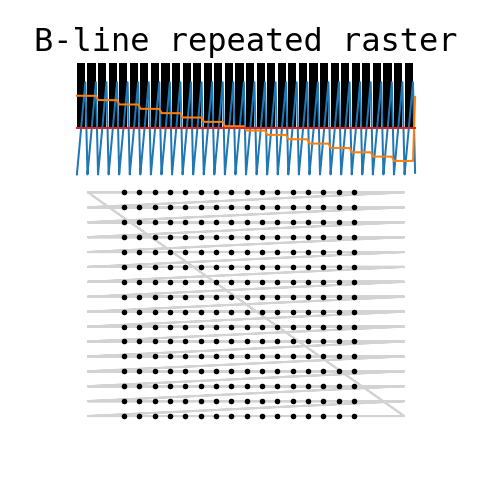
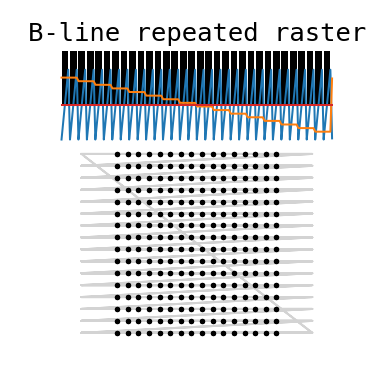
Bidirectional raster support, demo, test and some fixes

Changed region(s): [[0.0625, 0.0312, 0.9688, 0.875], [0.1875, 0.5312, 0.2188, 0.875]]

diff --git a/scanpatterns/patterns.py b/scanpatterns/patterns.py
@@ -1,5 +1,5 @@
 import numpy as np
-
+import warnings
 
 def _sigmoidspace(start, stop, n, b=1):
     """Interpolate n points of a sigmoidal function between start and stop.
@@ -396,26 +396,13 @@ class RasterScanPattern(LineScanPattern):
 
         self.alines = int(alines)
         self.blines = int(blines)
-        
-        self.fov = fov
-
-        self.samples_on = int(samples_on)
-        self.samples_settle = int(samples_settle)
-        self.samples_step = int(samples_step)
 
         self.aline_repeat = int(aline_repeat)
         self.bline_repeat = int(bline_repeat)
-
+  
         self.fast_axis_step = fast_axis_step
-        self.slow_axis_step = slow_axis_step
-        
-        self.rotation_rad = rotation_rad
-
-        if samples_off is None:
-            self.samples_off = int(samples_on)
-        else:
-            self.samples_off = int(samples_off)
-
+        self.slow_axis_step = slow_axis_step  
+  
         if aline_repeat < 2:
             self.aline_repeat = 1
         else:
@@ -426,42 +413,70 @@ class RasterScanPattern(LineScanPattern):
             self.bline_repeat = 1
         else:
             # B-line repeat must use stepped slow axis
-            self.slow_axis_step = True
+            self.slow_axis_step = True  
+  
+        self.bidirectional = bool(bidirectional)
+        if self.bidirectional:  # Lots of settings are incompatible with bidirectional=True
+            if self.aline_repeat != 1:
+                self.aline_repeat = 1
+                warnings.warn('Bidirectional repeated A-lines not supported. Using aline_repeat=1')
+            if self.fast_axis_step:
+                self.fast_axis_step = False
+                warnings.warn('Bidirectional scans with stepped fast axis are not supported. Using fast_axis_step=False')
+            if self.bline_repeat != 1:
+                self.bline_repeat = 1
+                warnings.warn('Bidirectional repeated B-lines not supported. Using bline_repeat=1')  
+  
+        self.fov = fov
+
+        self.samples_on = int(samples_on)
+        self.samples_settle = int(samples_settle)
+        self.samples_step = int(samples_step)
+        
+        self.rotation_rad = rotation_rad
+
+        if samples_off is None:
+            self.samples_off = int(samples_on)
+        else:
+            self.samples_off = int(samples_off)
 
         period_samples = self.samples_on + self.samples_off
         
         self.max_trigger_rate = max_trigger_rate
         self._sample_rate = self.max_trigger_rate * period_samples
 
-        aline_trig = np.concatenate([np.ones(self.samples_on), np.zeros(self.samples_off)])
+        single_aline_trig = np.concatenate([np.ones(self.samples_on), np.zeros(self.samples_off)])
         if self.fast_axis_step:  # If fast axis is stepped, trigger includes a settling time and step time
-            aline_trig = np.concatenate([np.zeros(self.samples_settle),
-                                         np.tile(aline_trig, self.aline_repeat),
-                                         np.zeros(self.samples_step)])
-
-        aline_trigs = np.tile(aline_trig, self.alines)  # Each line needs this many exposures
+            single_aline_trig = np.concatenate([np.zeros(self.samples_settle),
+                                                np.tile(single_aline_trig, self.aline_repeat),
+                                                np.zeros(self.samples_step)])
+            
+        aline_trigs = np.concatenate([np.zeros(self.samples_off), np.tile(single_aline_trig, self.alines)])  # Each line needs this many exposures
         
+        self.exposure_fraction = exposure_fraction
         if not self.fast_axis_step:
             # Exposures are padded such that they comprise exposure_fraction of the sweep
-            bline_pad = np.zeros(int((len(aline_trigs) * (1 - exposure_fraction)) / 2))    
+            bline_pad = np.zeros(int((len(aline_trigs) * (1 - self.exposure_fraction)) / 2))    
             self.true_exposure_fraction = 1 - (2 * len(bline_pad)) / len(aline_trigs)
             bline_exp = np.concatenate([bline_pad, aline_trigs, bline_pad])
         else:
             bline_exp = aline_trigs
         
-        self.bidirectional = bool(bidirectional)
+        # Flyback duty is the percentage of the imaging sweep to spend on flyback
+        self.flyback_duty = flyback_duty
+        flyback_pad = np.zeros(int((len(bline_exp) * self.flyback_duty) / (1 - self.flyback_duty)))
         if not self.bidirectional: # No flyback if the scan is bidirectional            
-            # Flyback duty is the percentage of the imaging sweep to spend on flyback
-            flyback_pad = np.zeros(int((len(bline_exp) * flyback_duty) / (1 - flyback_duty)))
             bline_trig = np.concatenate([bline_exp, flyback_pad])
-        
+        else:
+            bline_trig = bline_exp
+            
         # Apply B-line repeat
         bline_trig = np.tile(bline_trig, self.bline_repeat)
 
         if not self.fast_axis_step:
             
             # True peak of sweep is greater than desired field of view to compensate for the exposure fraction
-            fast_axis_peak = (fov[0] + fov[0] * (1 - self.true_exposure_fraction) * 1.4) / 2
+            fast_axis_peak = (fov[0] + fov[0] * (1 - self.true_exposure_fraction)) / 2
             
             # Fast axis is a simple saw
             fast_axis_scan = np.linspace(-fast_axis_peak, fast_axis_peak, len(bline_exp))
@@ -469,19 +484,30 @@ class RasterScanPattern(LineScanPattern):
         
         else:  # Fast axis stepped
             
-            fast_axis_scan = np.array([])
             positions = np.linspace(-fov[0] / 2, fov[0] / 2, self.alines)  # Exposure fraction is ignored
+            fast_axis_scan = positions[0] * np.ones(self.samples_off)  # Begin at first spot
             for i in range(len(positions) - 1):
-                fast_axis_scan = np.append(fast_axis_scan, positions[i] * np.ones(len(aline_trig) - self.samples_step))  # Scan spot
+                fast_axis_scan = np.append(fast_axis_scan, positions[i] * np.ones(len(single_aline_trig) - self.samples_step))  # Scan spot
                 fast_axis_scan = np.append(fast_axis_scan, np.linspace(positions[i], positions[i + 1], self.samples_step + 2)[1:-1])  # Transit to next
-            fast_axis_scan = np.append(fast_axis_scan, positions[-1] * np.ones(len(aline_trig)))  # Scan final spot
+            fast_axis_scan = np.append(fast_axis_scan, positions[-1] * np.ones(len(single_aline_trig)))  # Scan final spot
             fast_axis_flyback = np.linspace(positions[-1], positions[0], len(flyback_pad) + 2)[1:-1]
         
         # Apply B-line repeat
-        bline_scan = np.tile(np.concatenate([fast_axis_scan, fast_axis_flyback]), self.bline_repeat)
-        
-        x = np.tile(bline_scan, self.blines)
-        line_trig = np.tile(bline_trig, self.blines)
+        if not self.bidirectional:
+            bline_scan = np.tile(np.concatenate([fast_axis_scan, fast_axis_flyback]), self.bline_repeat)
+            x = np.tile(bline_scan, self.blines)
+            line_trig = np.tile(bline_trig, self.blines)
+        else:
+            remainder = self.blines % 2
+            half = int((self.blines - remainder) / 2)
+            bline_scan2 = np.concatenate([fast_axis_scan, fast_axis_scan[::-1]])
+            bline_trig2 = np.concatenate([bline_trig, bline_trig[::-1]])
+            x = np.tile(bline_scan2, half)
+            line_trig = np.tile(bline_trig2, half)
+            if bool(remainder):  # Odd-numered scans do not start where they left off
+                x = np.concatenate([x, fast_axis_scan])
+                line_trig = np.concatenate([line_trig, bline_trig])
+            
 
         if trigger_blines:
             f = np.zeros(len(bline_trig))
@@ -492,24 +518,46 @@ class RasterScanPattern(LineScanPattern):
             frame_trig[0:samples_on] = 1
 
         if self.blines > 1:
-            
-            slow_axis_flyback = np.linspace(-fov[1] / 2, fov[1] / 2, len(flyback_pad) + 2)[1:-1]
-
-            if self.slow_axis_step is False:
-                slow_axis_scan = np.linspace(fov[1] / 2, -fov[1] / 2, len(x) - len(fast_axis_flyback) + 2)[1:-1]
-            else:
-                slow_axis_scan = np.array([])
-                positions = np.linspace(fov[1] / 2, -fov[1] / 2, self.alines)
-                if self.bline_repeat > 1:
-                    scan_duration = self.bline_repeat * (len(fast_axis_scan) + len(fast_axis_flyback)) - len(fast_axis_flyback)
-                else:
-                    scan_duration = len(fast_axis_scan)
-                for i in range(len(positions) - 1):
-                    slow_axis_scan = np.append(slow_axis_scan, positions[i] * np.ones(scan_duration))  # Scan spot
-                    slow_axis_scan = np.append(slow_axis_scan, np.linspace(positions[i], positions[i + 1], len(fast_axis_flyback) + 2)[1:-1])  # Transit to next
-                slow_axis_scan = np.append(slow_axis_scan, positions[-1] * np.ones(scan_duration))  # Scan final spot
-            y = np.concatenate([slow_axis_scan, slow_axis_flyback])
         
+            slow_axis_flyback = np.linspace(-fov[1] / 2, fov[1] / 2, len(flyback_pad) + 2)[1:-1]
+            
+            if not self.bidirectional:
+                
+                if self.slow_axis_step is False:
+                    slow_axis_scan = np.linspace(fov[1] / 2, -fov[1] / 2, len(x) - len(fast_axis_flyback))
+                else:
+                    slow_axis_scan = np.array([])
+                    positions = np.linspace(fov[1] / 2, -fov[1] / 2, self.blines)
+                    if self.bline_repeat > 1:
+                        scan_duration = self.bline_repeat * (len(fast_axis_scan) + len(fast_axis_flyback)) - len(fast_axis_flyback)
+                    else:
+                        scan_duration = len(fast_axis_scan)
+                    for i in range(len(positions) - 1):
+                        slow_axis_scan = np.append(slow_axis_scan, positions[i] * np.ones(scan_duration))  # Scan spot
+                        slow_axis_scan = np.append(slow_axis_scan, np.linspace(positions[i], positions[i + 1], len(fast_axis_flyback) + 2)[1:-1])  # Transit to next
+                    slow_axis_scan = np.append(slow_axis_scan, positions[-1] * np.ones(scan_duration))  # Scan final spot
+                y = np.concatenate([slow_axis_scan, slow_axis_flyback])
+            
+            else:  # Bidirectional slow axis has different transit and flyback model based on exposure_fraction
+                
+                if self.slow_axis_step is False:
+                    slow_axis_scan = np.linspace(fov[1] / 2, -fov[1] / 2, len(x))
+                else:
+                    slow_axis_scan = np.array([])
+                    positions = np.linspace(fov[1] / 2, -fov[1] / 2, self.blines)
+                    slow_axis_scan = np.append(slow_axis_scan, positions[0] * np.ones(len(aline_trigs) + len(bline_pad)))  # Scan first spot
+                    slow_axis_scan = np.append(slow_axis_scan, np.linspace(positions[0], positions[1], 2 * len(bline_pad) + 2)[1:-1])  # Transit to second spot
+                    for i in range(1, len(positions) - 1):
+                        slow_axis_scan = np.append(slow_axis_scan, positions[i] * np.ones(len(aline_trigs)))  # Scan spot
+                        slow_axis_scan = np.append(slow_axis_scan, np.linspace(positions[i], positions[i + 1], 2 * len(bline_pad) + 2)[1:-1])  # Transit to next
+                    slow_axis_scan = np.append(slow_axis_scan, positions[-1] * np.ones(len(aline_trigs) + len(bline_pad)))  # Scan final spot
+                y = np.concatenate([slow_axis_scan, slow_axis_flyback])
+                if self.blines % 2 > 0:
+                    x = np.concatenate([x, np.linspace(x[-1], x[0], len(slow_axis_flyback))])
+                else:
+                    x = np.concatenate([x, np.ones(len(slow_axis_flyback)) * x[-1]])
+                line_trig = np.concatenate([line_trig, np.zeros(len(slow_axis_flyback))])
+                frame_trig = np.concatenate([frame_trig, np.zeros(len(slow_axis_flyback))])
         else:
             # If only 1 B-line, don't scan second axis at all
             y = np.zeros(len(x))
@@ -530,10 +578,10 @@ if __name__ == '__main__':
     
     import matplotlib
     import matplotlib.pyplot as plt
-    
+
     print('Generating demo figures...')
 
-    matplotlib.rcParams.update({'font.size': 20, 'font.family': 'monospace'})
+    matplotlib.rcParams.update({'font.size': 16, 'font.family': 'monospace'})
     
     patterns = [
         RasterScanPattern(16, 16, 1, samples_on=1, samples_off=10),
@@ -541,6 +589,7 @@ if __name__ == '__main__':
         RasterScanPattern(16, 16, 1, samples_on=1, samples_off=10, bline_repeat=2),
         RasterScanPattern(16, 16, 1, samples_on=1, samples_off=10, fov=[1.5, 4.5], fast_axis_step=True, slow_axis_step=True),
         RasterScanPattern(16, 16, 1, samples_on=1, samples_off=10, fast_axis_step=True, slow_axis_step=True, rotation_rad=np.pi/4),
+        RasterScanPattern(15, 15, 1, samples_on=1, samples_off=10, bidirectional=True, slow_axis_step=True),
         Figure8ScanPattern(1, 16, 1, samples_on=1, samples_off=10),
         RoseScanPattern(3, 1, 16, 1, samples_on=1, samples_off=10),
         RoseScanPattern(5, 1, 16, 1, samples_on=1, samples_off=10),
@@ -552,6 +601,7 @@ if __name__ == '__main__':
         'B-line repeated raster',
         'Rectangular raster',
         'Rotated raster',
+        'Bidirectional raster',
         'Figure-8',
         'Rose p=3',
         'Rose p=5',
@@ -563,6 +613,7 @@ if __name__ == '__main__':
         'rasterrpt.png',
         'rectraster.png',
         'rotraster.png',
+        'biraster.png',
         'fig8.png',
         'rose3.png',
         'rose5.png',
@@ -570,7 +621,7 @@ if __name__ == '__main__':
     
     for i, (pattern, title, fname) in enumerate(zip(patterns, titles, fnames)):
         
-        fig = plt.figure(i, constrained_layout=False, figsize=(5, 5))
+        fig = plt.figure(i, constrained_layout=False, figsize=(4, 4))
         
         gs = fig.add_gridspec(nrows=3, ncols=1, hspace=0.01)
         ax1 = fig.add_subplot(gs[0, 0])

diff --git a/tests/test.py b/tests/test.py
@@ -15,16 +15,28 @@ def _measure_fov(raster: RasterScanPattern):
 
 def _print_line_scan_pattern(pattern: LineScanPattern):
     print('Pattern type:', pattern.__class__.__name__)
-    print('Number of samples', len(pattern.x))
-    print('Number of A-lines', pattern.total_number_of_alines)
-    print('Dimensions', pattern.dimensions)
-    print('Sample rate', pattern.sample_rate, 'Hz')
-    print('Pattern rate', pattern.pattern_rate, 'Hz')
+    print('Number of samples:', len(pattern.x))
+    print('Number of A-lines:', pattern.total_number_of_alines)
+    print('Dimensions:', pattern.dimensions)
+    print('Sample rate:', pattern.sample_rate, 'Hz')
+    print('Pattern rate:', pattern.pattern_rate, 'Hz')
+
+
+def _print_raster_pattern(raster: RasterScanPattern):
+    _print_line_scan_pattern(raster)
+    print('Ideal FOV:', raster.fov)
+    print('Actual FOV:', _measure_fov(raster))
+    print('Ideal exposure fraction:', raster.exposure_fraction)
+    print('Actual exposure fraction:', raster.true_exposure_fraction)
+    print('Flyback duty:', raster.flyback_duty)
+    print('Fast-axis step:', raster.fast_axis_step)
+    print('Slow-axis step:', raster.slow_axis_step)
+    print('Bidirectional:', raster.bidirectional)
 
 
 def _test_signal_len(test: unittest.TestCase, pat: LineScanPattern):
     test.assertTrue(all([len(pat.x) == len(l) for l in [pat.x, pat.y, pat.line_trigger, pat.frame_trigger]]),
-                    msg='Scan signals of ' + pat.__class__.__name__ + ' vary in length! Lengths:'+ str(len(pat.x))
+                    msg='Scan signals of ' + pat.__class__.__name__ + ' vary in length! Lengths: '+ str(len(pat.x))
                     + ' ' + str(len(pat.y)) + ' ' + str(len(pat.line_trigger)) + ' ' + str(len(pat.frame_trigger)))
 
 def _test_fov(test: unittest.TestCase, pat: RasterScanPattern, tolerance=0.1):
@@ -56,30 +68,36 @@ class scanpattern_test(unittest.TestCase):
             RasterScanPattern(64, 64, 76000),
             RasterScanPattern(128, 128, 76000),
             RasterScanPattern(256, 256, 76000),
-            RasterScanPattern(256, 256, 76000, fov=[10, 10]),
-            RasterScanPattern(256, 256, 76000, flyback_duty=0.1),
-            RasterScanPattern(256, 256, 76000, flyback_duty=0.2),
-            RasterScanPattern(256, 256, 76000, flyback_duty=0.3),
-            RasterScanPattern(256, 256, 76000, flyback_duty=0.4),
-            RasterScanPattern(256, 256, 76000, flyback_duty=0.5),
-            RasterScanPattern(256, 256, 76000, exposure_fraction=0.9),
-            RasterScanPattern(256, 256, 76000, exposure_fraction=0.8),
-            RasterScanPattern(256, 256, 76000, exposure_fraction=0.7),
-            RasterScanPattern(256, 256, 76000, exposure_fraction=0.6),
-            RasterScanPattern(256, 256, 76000, exposure_fraction=0.5),
-            RasterScanPattern(256, 256, 76000, fast_axis_step=True),
-            RasterScanPattern(256, 256, 76000, slow_axis_step=True),
-            RasterScanPattern(256, 256, 76000, slow_axis_step=True, fast_axis_step=True),
-            RasterScanPattern(256, 256, 76000, aline_repeat=2, bline_repeat=1),
-            RasterScanPattern(256, 256, 76000, aline_repeat=2, bline_repeat=2),
-            RasterScanPattern(256, 256, 76000, aline_repeat=1, bline_repeat=2),
+            RasterScanPattern(128, 128, 76000, fov=[10, 10]),
+            RasterScanPattern(128, 128, 76000, flyback_duty=0.1),
+            RasterScanPattern(128, 128, 76000, flyback_duty=0.2),
+            RasterScanPattern(128, 128, 76000, flyback_duty=0.3),
+            RasterScanPattern(128, 128, 76000, flyback_duty=0.4),
+            RasterScanPattern(128, 128, 76000, flyback_duty=0.5),
+            RasterScanPattern(128, 128, 76000, exposure_fraction=0.9),
+            RasterScanPattern(128, 128, 76000, exposure_fraction=0.8),
+            RasterScanPattern(128, 128, 76000, exposure_fraction=0.7),
+            RasterScanPattern(128, 128, 76000, exposure_fraction=0.6),
+            RasterScanPattern(128, 128, 76000, exposure_fraction=0.5),
+            RasterScanPattern(128, 128, 76000, fast_axis_step=True),
+            RasterScanPattern(128, 128, 76000, slow_axis_step=True),
+            RasterScanPattern(128, 128, 76000, slow_axis_step=True, fast_axis_step=True),
+            RasterScanPattern(128, 128, 76000, aline_repeat=2, bline_repeat=1),
+            RasterScanPattern(128, 128, 76000, aline_repeat=2, bline_repeat=2),
+            RasterScanPattern(128, 128, 76000, aline_repeat=1, bline_repeat=2),
+            RasterScanPattern(128, 128, 76000, aline_repeat=1, bline_repeat=2),
+            RasterScanPattern(128, 128, 76000, bidirectional=True),
+            RasterScanPattern(128, 128, 76000, bidirectional=True, slow_axis_step=True),
+            RasterScanPattern(65, 65, 76000, bidirectional=True, slow_axis_step=True),
+            RasterScanPattern(65, 65, 76000, bidirectional=True),
             ]
         for pat in patterns:
             _test_signal_len(self, pat)
-            x, y =_measure_fov(pat)
-            _test_fov(self, pat, 0.2)
-            _print_line_scan_pattern(pat)
-            print('FOV measured to be', x, y)
+            _print_raster_pattern(pat)
+            _test_fov(self, pat, 0.05)  # 5% FOV error tolerance
+            print('------------')
+            print('Test: PASSED')
+            print('------------')
             print()
 
     
